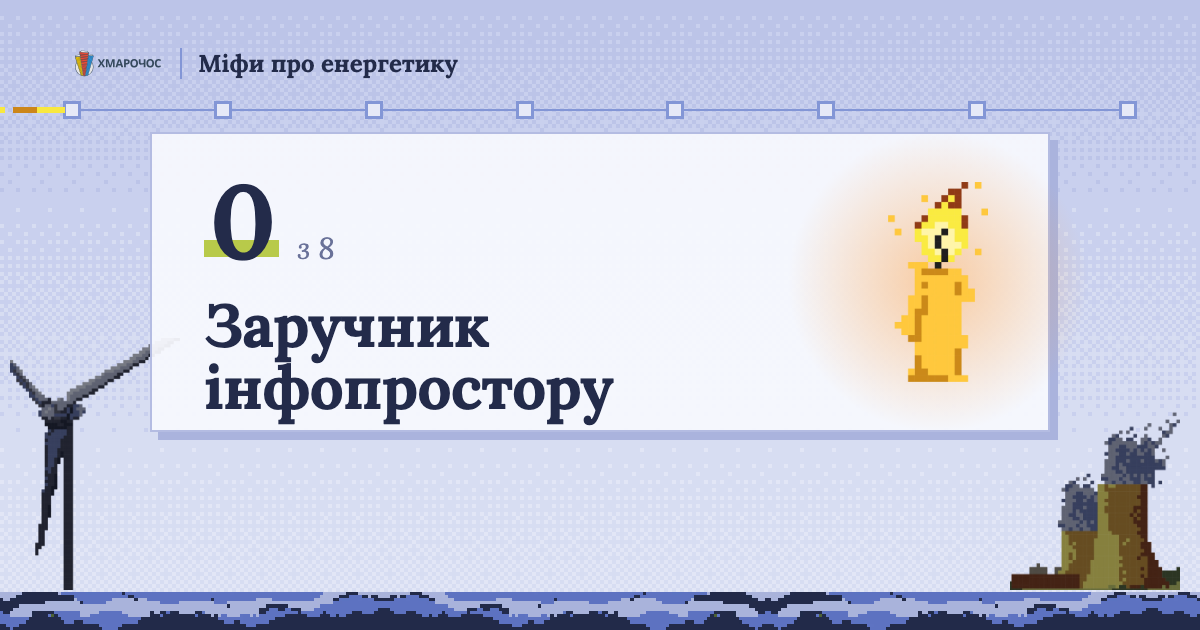
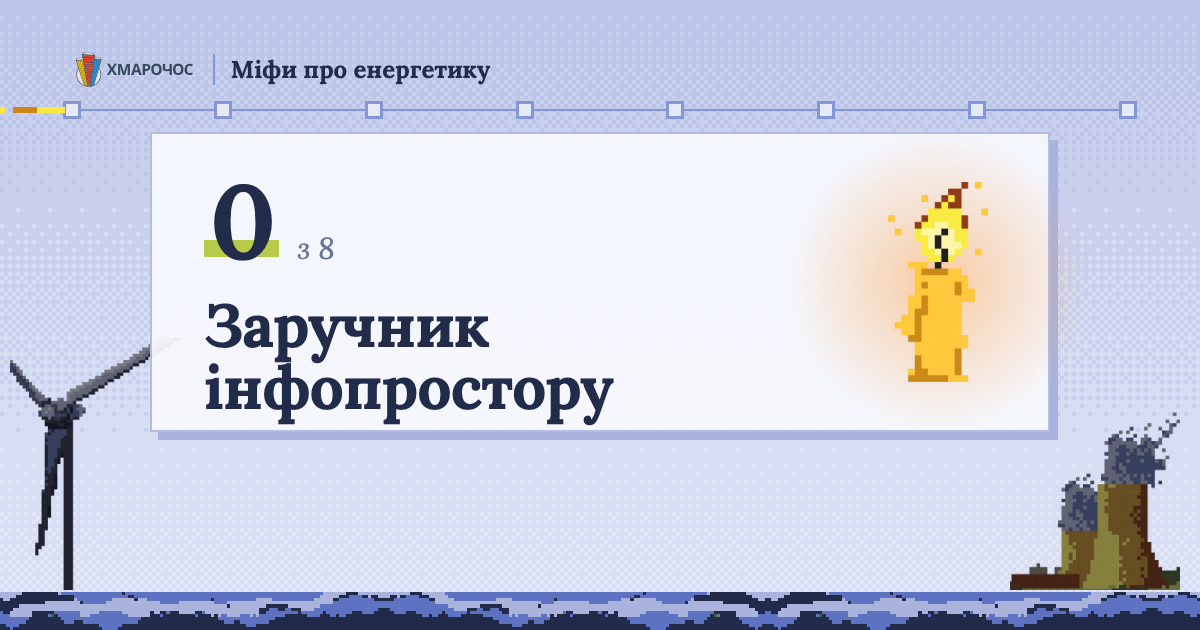
Мережа: «з 8 правильних відповідей» замість підстанцій; більше лого Хмарочоса; OG_VERSION 8

Changed region(s): [[0.0617, 0.0603, 0.4008, 0.1508]]

diff --git a/app/skins/grid/GridSkin.tsx b/app/skins/grid/GridSkin.tsx
@@ -31,7 +31,7 @@ const UI = {
   site: "hmarochos.kiev.ua",
   of: (t: number) => `з ${t}`,
   sharedResult: "Результат тесту",
-  live: "підстанцій під напругою",
+  live: "правильних відповідей",
   nf: "Тут світла немає — сторінку не знайдено",
   home: "На початок",
 };
@@ -92,7 +92,7 @@ function Head() {
 function Grid({ history, now, fresh }: { history: boolean[]; now?: number; fresh?: boolean }) {
   const on = history.filter(Boolean).length;
   return (
-    <div className="grid" role="img" aria-label={`Під напругою ${on} з ${TOTAL} підстанцій`}>
+    <div className="grid" role="img" aria-label={`Правильних відповідей: ${on} з ${TOTAL}`}>
       <span className="line" aria-hidden>
         <span className="pulse" />
       </span>

diff --git a/og-src/og.html b/og-src/og.html
@@ -20,7 +20,7 @@ body { margin: 0; width: 1200px; height: 630px; overflow: hidden; position: rela
 body.night .ground { background-image: url("../public/art/px/hills-night.png"); }
 .head { position: absolute; left: 72px; right: 72px; top: 46px; display: flex; align-items: center; justify-content: space-between; }
 .brand { display: flex; align-items: center; gap: 16px; font: 700 24px "Lora", serif; }
-.brand img { height: 34px; }
+.brand img { height: 46px; }
 .brand span { padding-left: 16px; border-left: 2px solid var(--line-2); }
 .cap { font-size: 18px; font-weight: 700; letter-spacing: .14em; text-transform: uppercase; color: var(--blue-d); }
 .cap::before { content: ""; display: inline-block; width: 12px; height: 12px; margin-right: 14px; background: var(--amber); box-shadow: 0 0 0 2px var(--orange); vertical-align: 1px; }

diff --git a/app/share.ts b/app/share.ts
@@ -19,4 +19,4 @@ export function scoreShareUrl(score: number): string {
 }
 
 /** Версія OG-картинок: міняємо, коли картинки перемальовано, щоб соцмережі взяли нові. */
-export const OG_VERSION = "7";
+export const OG_VERSION = "8";

diff --git a/app/skins/grid/grid.css b/app/skins/grid/grid.css
@@ -102,8 +102,14 @@
 }
 
 .nm .brand img {
-  height: 24px;
+  height: 32px;
   width: auto;
+}
+
+@media (min-width: 900px) {
+  .nm .brand img {
+    height: 40px;
+  }
 }
 
 .nm .brand span {
